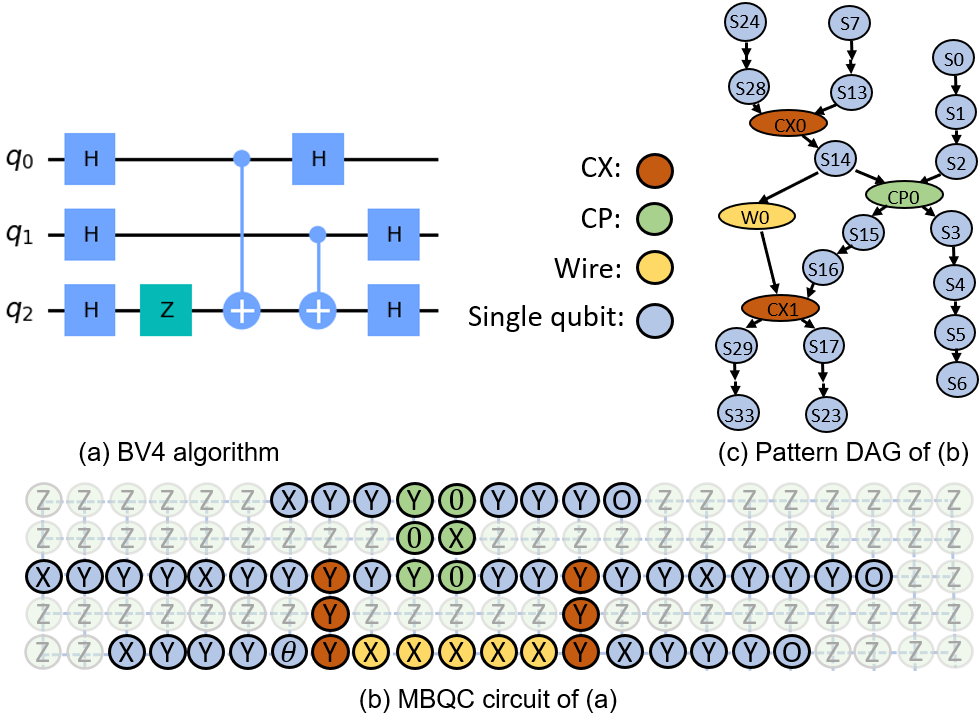
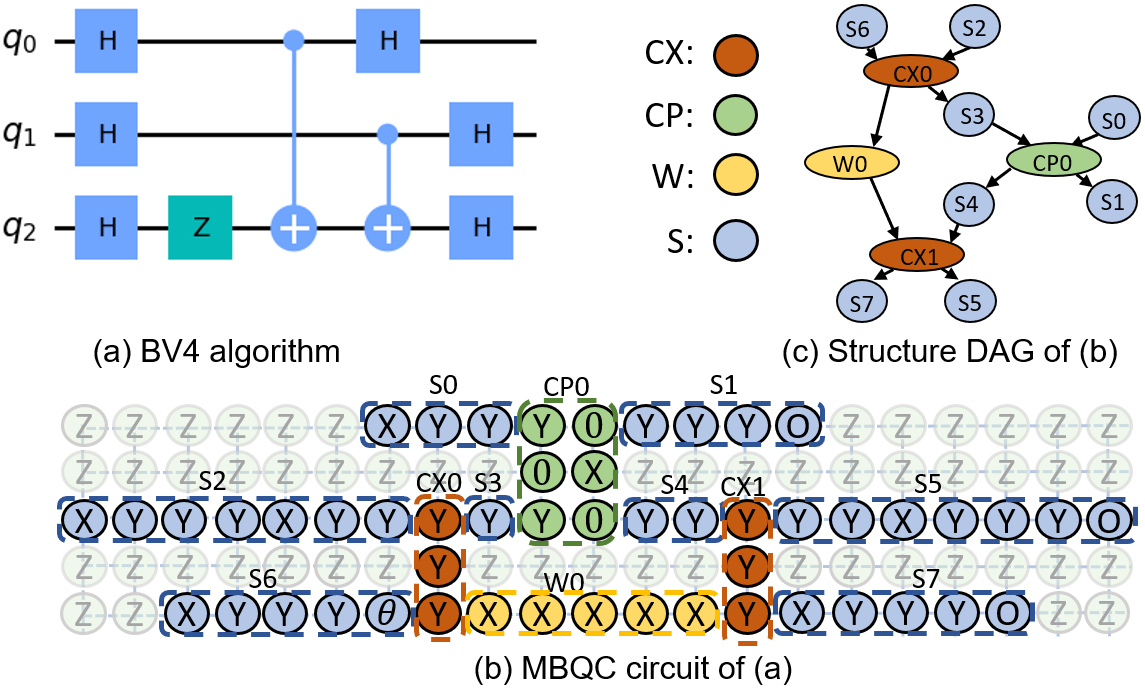
1.3

diff --git a/reorder.py b/reorder.py
@@ -9,8 +9,8 @@ import copy
 from dense import *
 def biuld_DAG(gates):
     DAG_list = gates.copy()
-qubits = 14
-rows = 41
+qubits = 3
+rows = 6
 # force_right = False#force the second c to the right
 # special = 0#for special leaves
 wire_remove = 1
@@ -27,7 +27,7 @@ for i in range(qubits*2-1):
     map.append([])
 for i in range(qubits):
     tracker.append(i)
-with open('Benchmarks/vqe14b.txt') as f:
+with open('Benchmarks/bv3b.txt') as f:
     lines = f.readlines()
 circuit= lines.copy()
 layer = []
